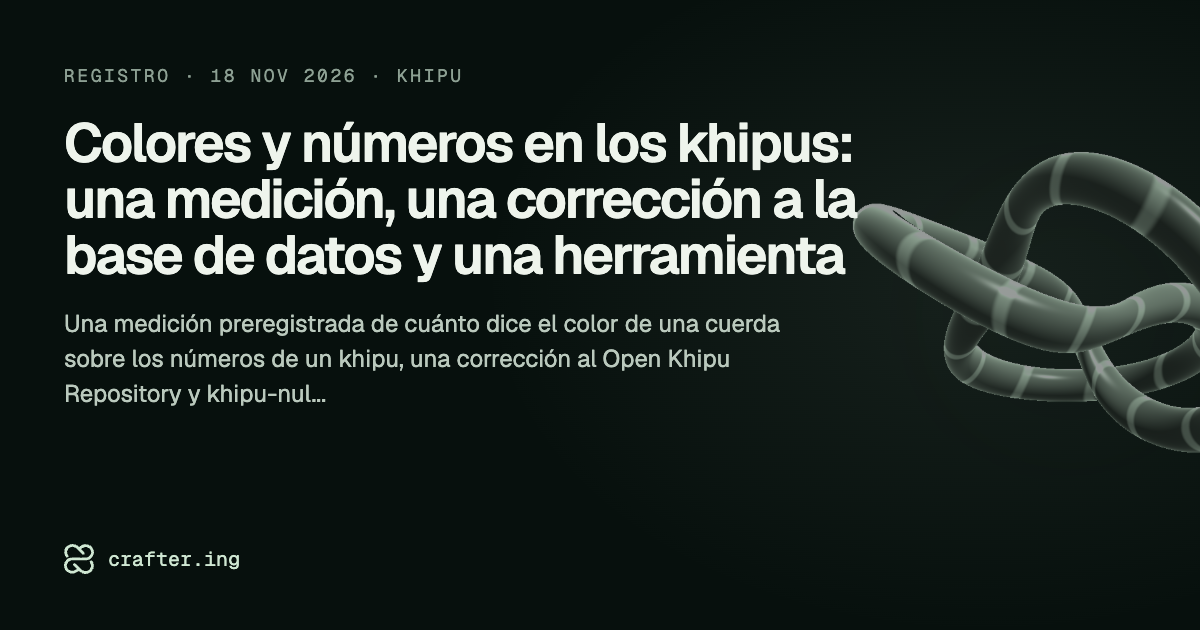
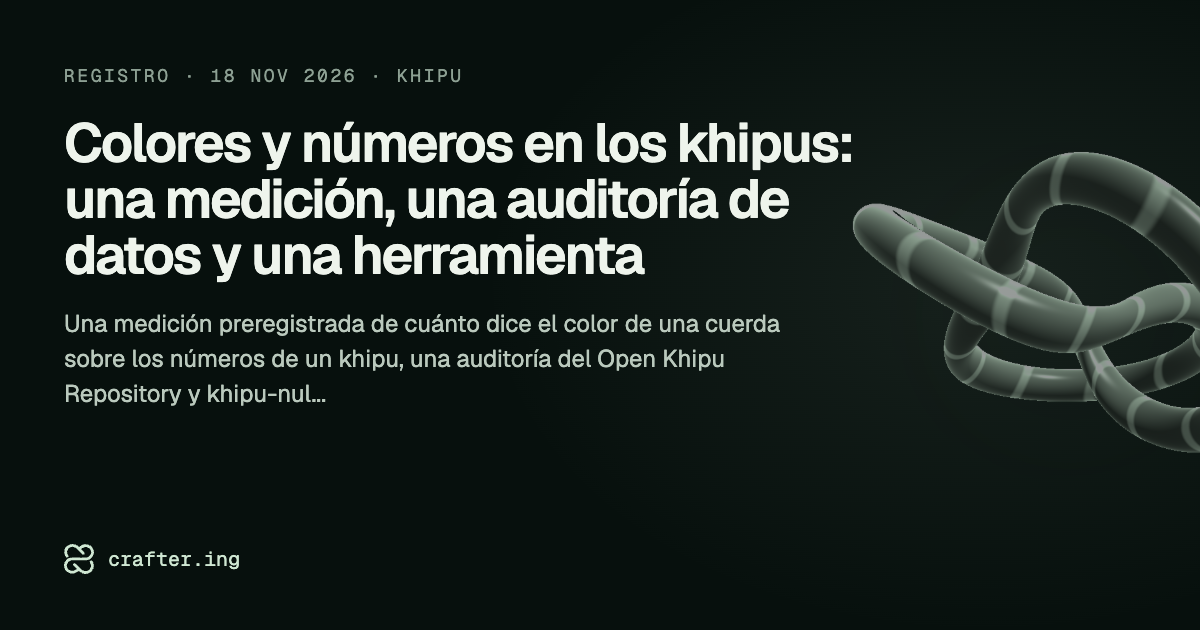
fix(research): describe the OKR finding as a discrepancy

Changed region(s): [[0.0308, 0.2714, 0.7092, 0.4524], [0.37, 0.5429, 0.6167, 0.6032]]

diff --git a/src/content/research/es/04-khipu-colour-legend.md b/src/content/research/es/04-khipu-colour-legend.md
@@ -1,10 +1,10 @@
 ---
-title: "Colores y números en los khipus: una medición, una corrección a la base de datos y una herramienta"
-description: "Una medición preregistrada de cuánto dice el color de una cuerda sobre los números de un khipu, una corrección al Open Khipu Repository y khipu-null, una herramienta abierta para poner a prueba patrones en khipus frente al azar."
+title: "Colores y números en los khipus: una medición, una auditoría de datos y una herramienta"
+description: "Una medición preregistrada de cuánto dice el color de una cuerda sobre los números de un khipu, una auditoría del Open Khipu Repository y khipu-null, una herramienta abierta para poner a prueba patrones en khipus frente al azar."
 abstract: |
   Medimos cuánto dice el color de una cuerda de khipu sobre el número anudado en ella. Dentro de un mismo khipu, el color aporta 0,016 bits por cuerda sobre el tamaño del número cuando se controla la disposición de las cuerdas, en las dos grandes colecciones publicadas. Eso queda por debajo del umbral de 0,02 que fijamos para una leyenda de colores, así que esa afirmación se retira.
 
-  También revisamos el emparejamiento más conocido entre khipus y un documento colonial, documentamos un error de codificación en la base pública y publicamos khipu-null, la herramienta detrás de estas pruebas.
+  También revisamos el emparejamiento más conocido entre khipus y un documento colonial, documentamos una discrepancia en la base pública y publicamos khipu-null, la herramienta detrás de estas pruebas.
 date: 2026-11-18T22:00:00Z
 status: result
 urlSlug: khipu-colour-legend
@@ -71,7 +71,7 @@ Seis khipus del valle de Santa se emparejaron con un censo de 1670 de San Pedro 
 - La propia tabla de Urton da 359. Llega a 367 y una fracción asignando valores a dos cuerdas rotas. Otras doce primeras cuerdas valen cero y se quedan en cero.
 - Un paper posterior cita totales de 381 o 382 y 86 para las dos mitades. Eso no suma 367. Si una mitad es 86, la otra tiene que ser 281 o 282, así que 381 podría ser una errata. Usamos la edición en español del libro de Urton y no revisamos la edición en inglés.
 
-La base pública codifica mal KH0326, el khipu del dibujo. Los nudos de las decenas aparecen como centenas, así que 15 se vuelve 105. Al mover ese dígito, 106 de sus 108 cuerdas colgantes coinciden con el Khipu Field Guide, y la tabla de Urton muestra los mismos valores en escala de decenas. La corrección está documentada en el repositorio para quienes mantienen la base.
+La base pública y el Khipu Field Guide no coinciden en KH0326, el khipu del dibujo. La base les da a sus nudos simples el valor 100 y el Field Guide les da 10, así que una cuerda que en uno se lee 15 en el otro es 105. Con la lectura del Field Guide coinciden 105 de sus 108 cuerdas colgantes, y la tabla de Urton muestra los mismos valores en escala de decenas. Un segundo khipu, KH0472, muestra el mismo desacuerdo. Las dos fuentes comparten origen, así que se lo planteamos a quienes mantienen la base en vez de llamarlo error.
 
 ## La herramienta: khipu-null
 

diff --git a/src/content/research/en/04-khipu-colour-legend.md b/src/content/research/en/04-khipu-colour-legend.md
@@ -1,10 +1,10 @@
 ---
-title: "Khipu colours and numbers: a measurement, a database correction and a tool"
-description: "A preregistered measurement of how much cord colour says about khipu numbers, a correction to the Open Khipu Repository, and khipu-null, an open tool for testing khipu patterns against chance."
+title: "Khipu colours and numbers: a measurement, a data audit and a tool"
+description: "A preregistered measurement of how much cord colour says about khipu numbers, an audit of the Open Khipu Repository, and khipu-null, an open tool for testing khipu patterns against chance."
 abstract: |
   We measured how much the colour of a khipu cord says about the number knotted on it. Inside a single khipu, colour carries 0.016 bits per cord about the size of a cord's number once cord layout is controlled, in both large published collections. That is below the 0.02 threshold we set for a colour legend, so the legend claim is withdrawn.
 
-  We also rechecked the best-known match between khipus and a colonial document, documented a coding error in the public database, and released khipu-null, the tool behind these tests.
+  We also rechecked the best-known match between khipus and a colonial document, documented a discrepancy in the public database, and released khipu-null, the tool behind these tests.
 date: 2026-11-18T22:00:00Z
 status: result
 urlSlug: khipu-colour-legend
@@ -71,7 +71,7 @@ Six khipus from the Santa Valley were matched to a 1670 census of San Pedro de C
 - Urton's own table reads 359. He reaches 367 and a fraction by giving values to two broken cords. Twelve other first cords are zero and stay zero.
 - A later paper cites totals of 381 or 382 and 86 for the two halves. Those do not add up to 367. If one half is 86, the other must be 281 or 282, so 381 may be a misprint. We used the Spanish edition of Urton's book and have not checked the English one.
 
-The public database miscodes KH0326, the khipu in the drawing. Knots in the tens place are recorded as hundreds, so 15 becomes 105. After moving that digit, 106 of its 108 hanging cords match the Khipu Field Guide, and Urton's table shows the same tens-scale values. The correction is documented in the repository for the maintainers.
+The public database and the Khipu Field Guide disagree on KH0326, the khipu in the drawing. The database gives its single knots the value 100 and the Field Guide gives them 10, so a cord read as 15 in one is 105 in the other. With the Field Guide reading, 105 of its 108 hanging cords match, and Urton's table shows the same tens-scale values. A second khipu, KH0472, shows the same disagreement. Both sources share a lineage, so we have put the question to the maintainers rather than calling it an error.
 
 ## The tool: khipu-null
 
